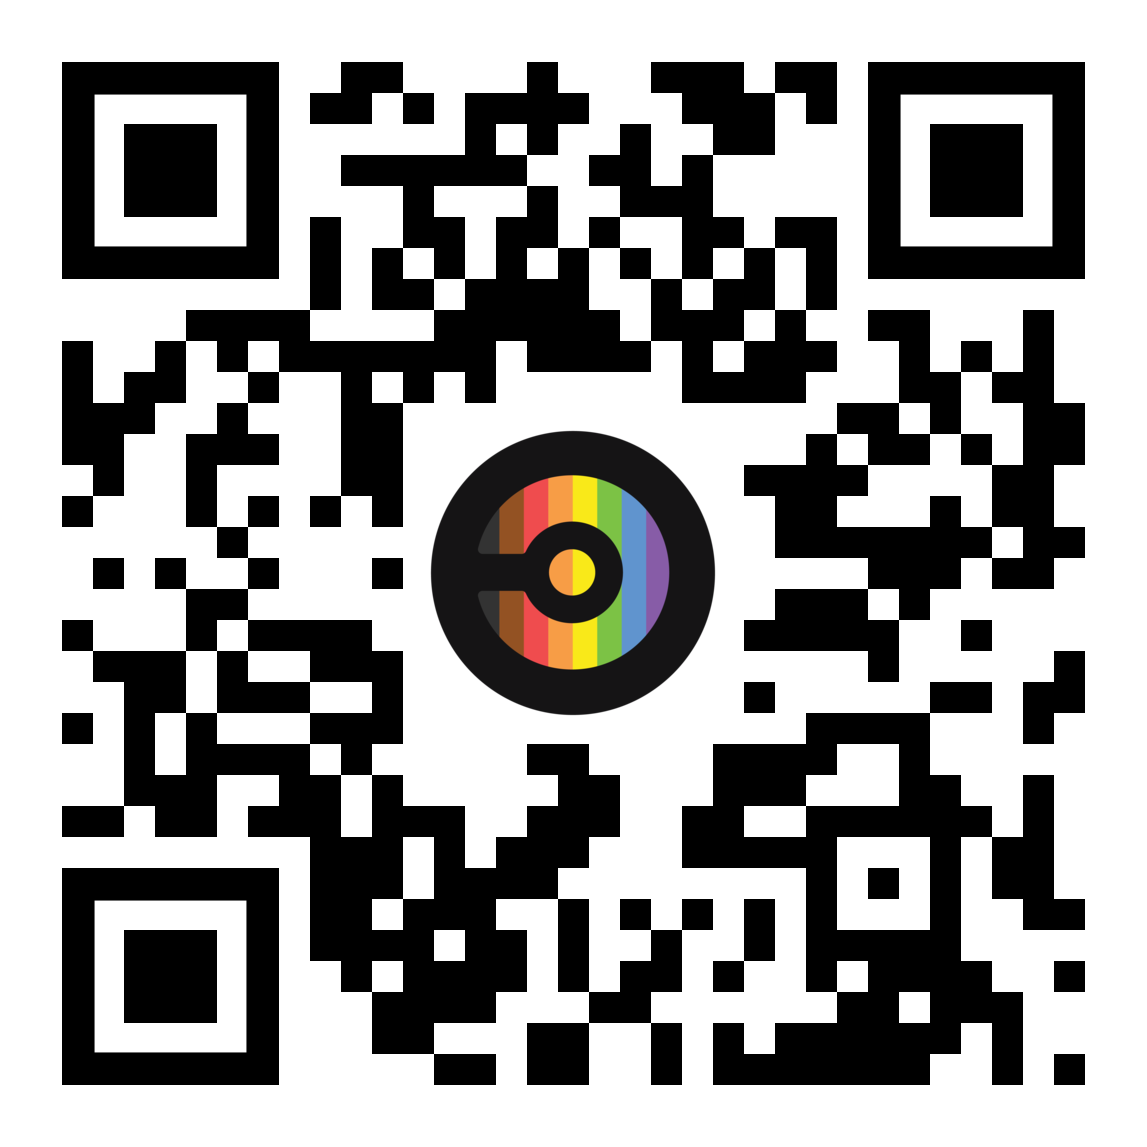
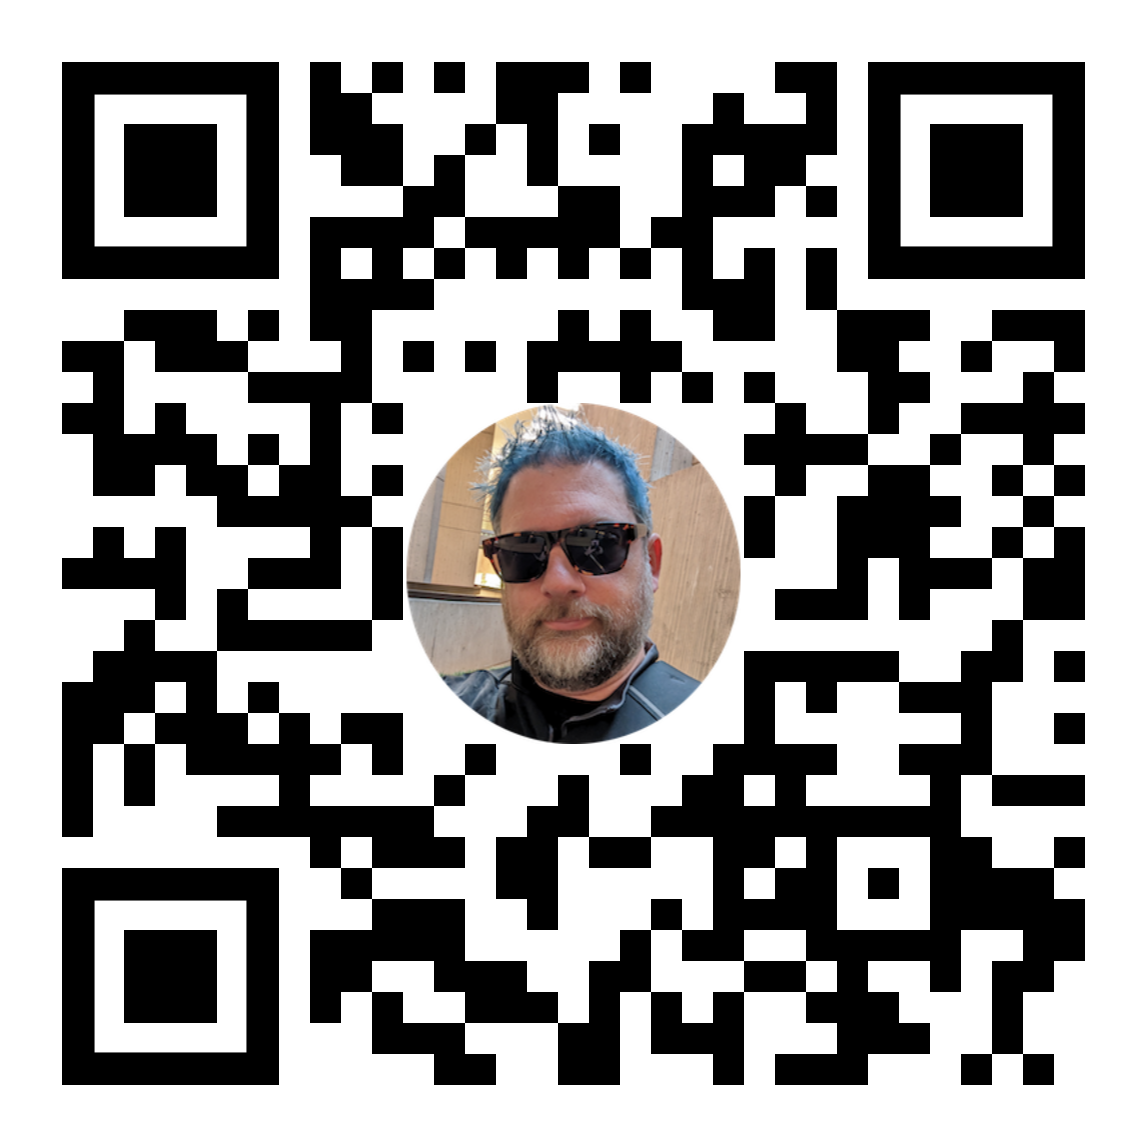
initial removal of circleci branding

diff --git a/content/15-min/_index.md b/content/15-min/_index.md
@@ -514,7 +514,7 @@ Throughput: Platform engineering exists primarily to remove blockers from develo
 ![2023 state of software delivery report](/images/slides/sosdr-qrcode.png)
 {.r-stretch}
 
-##### circle.ci/sosdr2023
+##### go.jmeiss.me/SoSDR2023
 
 ---
 
@@ -523,10 +523,6 @@ Throughput: Platform engineering exists primarily to remove blockers from develo
     <div class="multiCol">
         <div class="col">
             <h3 style="color: #04aa51;">Thank You.</h3>
-            <p style="font-size: .75em;"></p>
-            <p style="font-size: .5em;">For feedback and swag: <font style="color: rgb(111, 168, 220);"><br />
-            <img src="/images/qrcode-cci-jeremy.png"><br />
-            <strong>circle.ci/jeremy</strong></font></p>
         </div>
         <div class="col" align="center"></div>
         <div class="col" align="left" style="font-size: .5em;">

diff --git a/content/20-min/_index.md b/content/20-min/_index.md
@@ -529,7 +529,7 @@ Throughput: Platform engineering exists primarily to remove blockers from develo
 ![2023 state of software delivery report](/images/slides/sosdr-qrcode.png)
 {.r-stretch}
 
-##### circle.ci/sosdr2023
+##### go.jmeiss.me/SoSDR2023
 
 ---
 
@@ -538,10 +538,6 @@ Throughput: Platform engineering exists primarily to remove blockers from develo
     <div class="multiCol">
         <div class="col">
             <h3 style="color: #04aa51;">Thank You.</h3>
-            <p style="font-size: .75em;"></p>
-            <p style="font-size: .5em;">For feedback and swag: <font style="color: rgb(111, 168, 220);"><br />
-            <img src="/images/qrcode-cci-jeremy.png"><br />
-            <strong>circle.ci/jeremy</strong></font></p>
         </div>
         <div class="col" align="center"></div>
         <div class="col" align="left" style="font-size: .5em;">

diff --git a/content/30-min/_index.md b/content/30-min/_index.md
@@ -557,7 +557,7 @@ Throughput: Platform engineering exists primarily to remove blockers from develo
 ![2023 state of software delivery report](/images/slides/sosdr-qrcode.png)
 {.r-stretch}
 
-##### circle.ci/sosdr2023
+##### go.jmeiss.me/SoSDR2023
 
 ---
 
@@ -566,10 +566,6 @@ Throughput: Platform engineering exists primarily to remove blockers from develo
     <div class="multiCol">
         <div class="col">
             <h3 style="color: #04aa51;">Thank You.</h3>
-            <p style="font-size: .75em;"></p>
-            <p style="font-size: .5em;">For feedback and swag: <font style="color: rgb(111, 168, 220);"><br />
-            <img src="/images/qrcode-cci-jeremy.png"><br />
-            <strong>circle.ci/jeremy</strong></font></p>
         </div>
         <div class="col" align="center"></div>
         <div class="col" align="left" style="font-size: .5em;">

diff --git a/content/home/conclusion.md b/content/home/conclusion.md
@@ -10,7 +10,7 @@ custom_css = "css/custom.css"
 ![2023 state of software delivery report](/images/slides/sosdr-qrcode.png)
 {.r-stretch}
 
-##### circle.ci/sosdr2023}
+##### go.jmeiss.me/SoSDR2023
 
 ---
 
@@ -19,10 +19,6 @@ custom_css = "css/custom.css"
     <div class="multiCol">
         <div class="col">
             <h3 style="color: #04aa51;">Thank You.</h3>
-            <p style="font-size: .75em;"></p>
-            <p style="font-size: .5em;">For feedback and swag: <font style="color: rgb(111, 168, 220);"><br />
-            <img src="/images/qrcode-cci-jeremy.png"><br />
-            <strong>circle.ci/jeremy</strong></font></p>
         </div>
         <div class="col" align="center"></div>
         <div class="col" align="left" style="font-size: .5em;">
